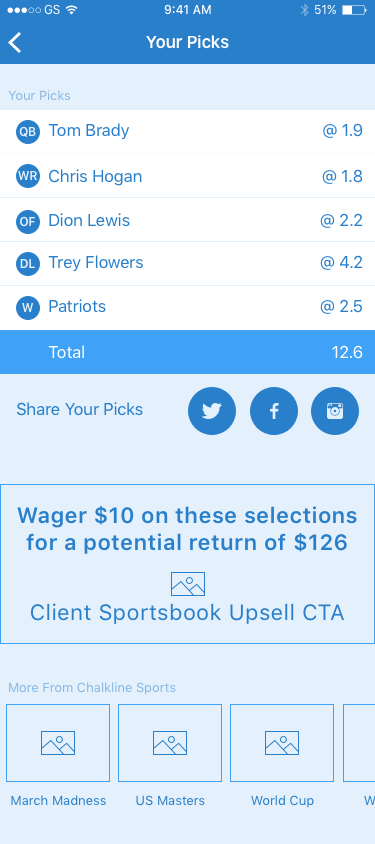
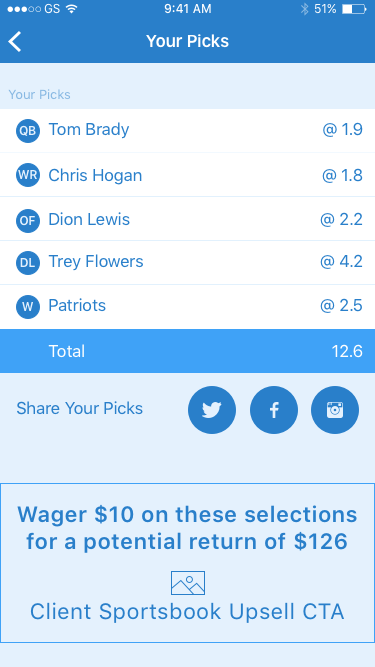
Fixed the gallery image cropping, still need to fix some gallery margins

diff --git a/src/components/shortcodes/ImageText.js b/src/components/shortcodes/ImageText.js
@@ -3,7 +3,10 @@ import { useStaticQuery, graphql } from 'gatsby';
 import { GatsbyImage, getImage } from 'gatsby-plugin-image';
 
 
-const ImageText = ({image, altText, children}) => {
+const ImageText = ({image, altText, children, sectionColour}) => {
+
+    const bgColour = (sectionColour !== undefined ? `${sectionColour}` : '');
+
 
 const files = useStaticQuery(graphql`
 query fileImage {
@@ -12,7 +15,7 @@ query fileImage {
                 node {
                     name
                     childImageSharp {
-                    gatsbyImageData(width: 500)
+                    gatsbyImageData(width: 500, layout: FIXED)
                     fluid {
                         src
                     }
@@ -36,10 +39,10 @@ const getImagePath = (edges, imageName) => {
 const imageFile = getImage(getImagePath(images,image));
 
     return (
-        <div className="child section-spacer">
-            <div className="container mx-auto grid grid-cols-1 gap-x-3 md:grid-cols-2">
+        <div className={`child section-spacer ${sectionColour}`}>
+            <div className="container mx-auto grid grid-cols-1 mb-12 gap-x-3 md:grid-cols-2">
                 <div className="flex items-center">
-                <GatsbyImage image={imageFile} alt={altText} />
+                <GatsbyImage style={{overflow:'visible'}} image={imageFile} alt={altText} layout="fixed" />
                 </div>
                 <div className="flex items-center md:ml-8">
                     <div>

diff --git a/src/components/shortcodes/Gallery.js b/src/components/shortcodes/Gallery.js
@@ -3,7 +3,10 @@ import { graphql, useStaticQuery } from "gatsby"
 import FsLightbox from 'fslightbox-react';
 import { GatsbyImage, getImage } from 'gatsby-plugin-image';
 
-const Gallery = ({sources}) => {
+const Gallery = ({sources, sectionColour}) => {
+
+    const bgColour = (sectionColour !== undefined ? `${sectionColour}` : '');
+
 
     const images = useStaticQuery(graphql`
     query projectImages {
@@ -44,13 +47,13 @@ const Gallery = ({sources}) => {
   
 
     return (
-    <section className="section-spacer child ">
+    <section className={`section-spacer child ${sectionColour}`}>
         <div className="container mx-auto my-8">
             <div className="grid gap-x-3 grid-cols-3">
             {newImages.map((item, index) => {
                 return(
                     <button key={index}  onClick={() => {handleClick(index + 1)}}>
-                        <GatsbyImage className=" overflow-hidden hover:shadow-lg" image={getImage(item)} alt={item.name}/>
+                        <GatsbyImage style={{marginTop: 0, marginBottom: 0}} imgStyle={{objectFit: 'contain'}} className=" hover:shadow-lg" image={getImage(item)} alt={item.name}/>
                     </button>
                 )
             })}

diff --git a/src/components/shortcodes/Blockquote.js b/src/components/shortcodes/Blockquote.js
@@ -2,10 +2,10 @@ import React from 'react'
 
 const Blockquote = ({caption, children, sectionColour}) => {
 
-    const bgColour = (sectionColour !== undefined ? `${sectionColour} child` : 'section-primary child')
+    const bgColour = (sectionColour !== undefined ? `${sectionColour}` : 'section-primary ')
 
     return (
-        <div className={`${bgColour} section-spacer`}>
+        <div className={`${bgColour} section-spacer child`}>
             <div className="flex flex-col justify-center container mx-auto w-10/12 lg:w-8/12">
             <blockquote className="mb-4">{children}</blockquote>
             {caption !== undefined && 

diff --git a/README.md b/README.md
@@ -8,7 +8,6 @@ Built with
 
 ## To Do
 
-- Fix section styling, add [unwrapped styles](https://www.gatsbyjs.com/plugins/gatsby-remark-unwrap-images/?=gatsby-remark)
-- Fix Gallery Image sizes
+- Remove Gallery Image Margin
 - Add Street Parking and Hydrocarbon content
 - Add Typescript
